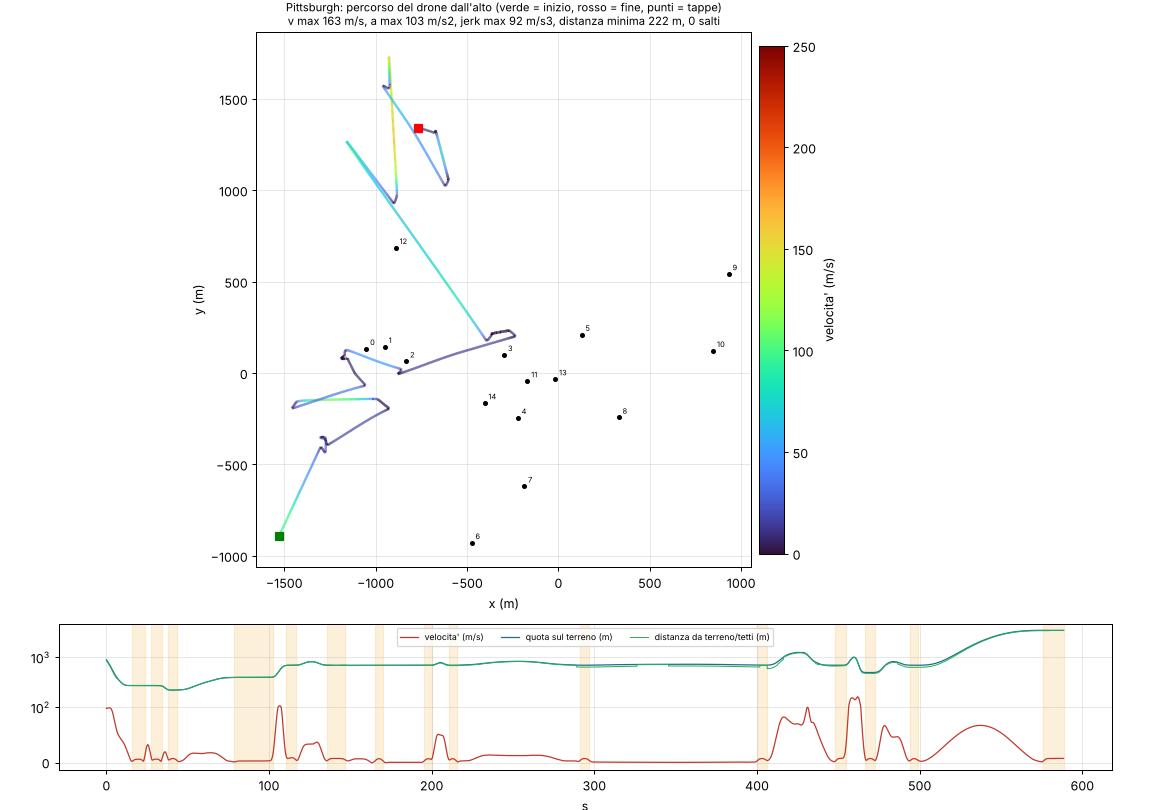
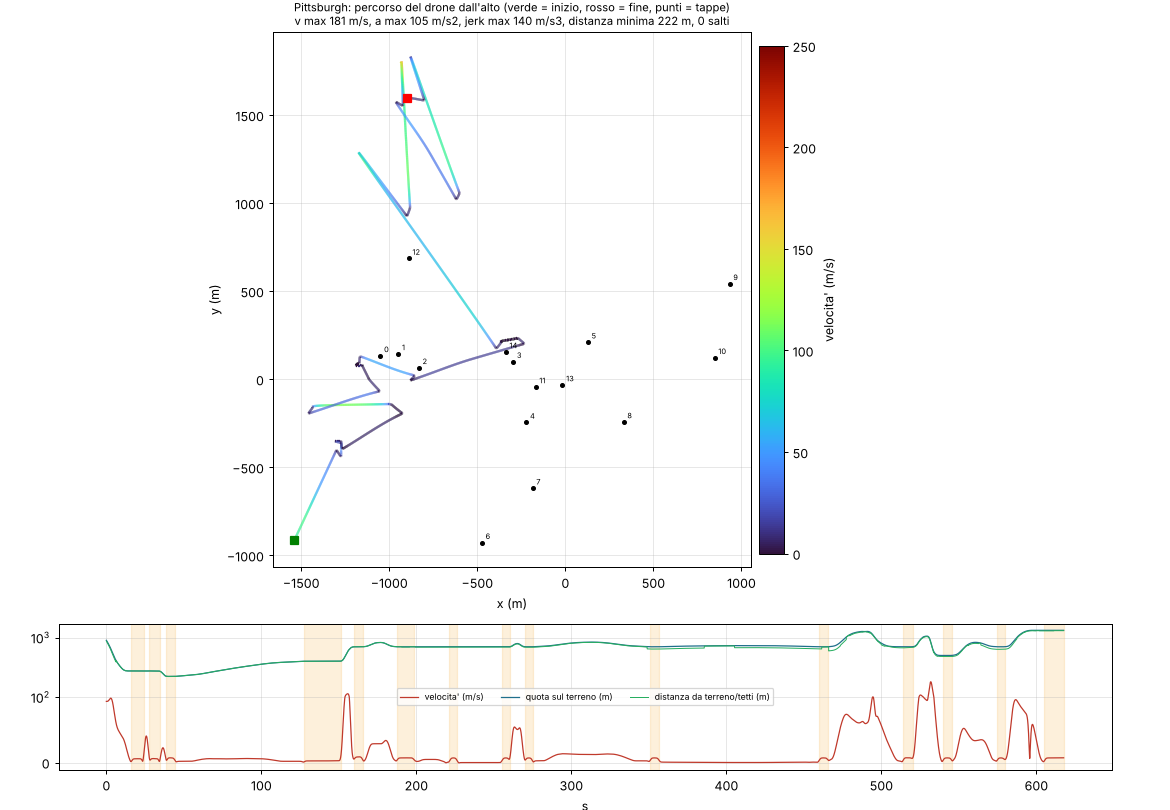
Pittsburgh gate: file rigenerati (giro 4, in corso)
Claude-Session: https://claude.ai/code/session_01FNnmkGRuUqGojwtegwiHi7

diff --git a/cities/pittsburgh/gate/DOSSIER.md b/cities/pittsburgh/gate/DOSSIER.md
@@ -1,24 +1,24 @@
 # GO dossier: Pittsburgh (pittsburgh)
 
-Generated by `python -m kit gate pittsburgh` on 2026-11-26 13:05 in 3446 s. **Overall: WARN** (gate checks, including every kit qa FAIL) / kit qa alone: **WARN**. No pod before a written GO (R3).
+Generated by `python -m kit gate pittsburgh` on 2026-11-26 16:15 in 3397 s. **Overall: WARN** (gate checks, including every kit qa FAIL) / kit qa alone: **WARN**. No pod before a written GO (R3).
 
 ## Verdict (R2)
 
-- **PASS** R2 camera distance: median 1731 m (35 mm equiv.), minimum 1200; refs: Copenhagen 1397, Paris 1427
-- **PASS** R2 look angle: p95 35 deg (limit 45), 97.4% of keys under it, max 82 deg
+- **PASS** R2 camera distance: median 1686 m (35 mm equiv.), minimum 1200; refs: Copenhagen 1397, Paris 1427
+- **PASS** R2 look angle: p95 35 deg (limit 45), 97.2% of keys under it, max 88 deg
 - **PASS** R2 frozen-counter flights: 0 flight(s) >= 12 s under 0.4 yr/s
 - **PASS** plots: plots.png
 - **PASS** POD PARITY: fresh unpack of data_pittsburgh_src + hist stub == local data: every json/npz md5 identical
 - **PASS** contact sheet: 26/26 real local frames: contact_sheet.jpg
 - **PASS** packaging draft: thumbnail + title built from the Lyon template
 - **WARN** banner: HEAD differs from origin/claude/marseille-pittsburgh-check-edrxmu: push before the GO
-- **WARN** banner: 3 uncommitted changes that the pod will not see (e.g. M cities/pittsburgh/copertina/frame_forts_round2_960.jpg)
+- **WARN** banner: 1 uncommitted changes that the pod will not see (e.g. M cities/pittsburgh/gate/contact_sheet.jpg)
 
 ## 1. Contact sheet (real local CPU frames, 480x270)
 
 ![contact](contact_sheet.jpg)
 
-Frames: flight:flight #1 -> Fort Duquesne (1754)@7.9s; flight:flight #11 -> The Civic Arena opens on the c@348.5s; flight:flight #14 -> The Tower at PNC Plaza (2015)@483.2s; hover:hover start: The Block House (1764)@38.2s; hover:hover end: The Block House (1764)@43.2s; intro:intro 0 s@0.0s; intro:intro 1 s@1.0s; intro:intro 2 s@2.0s; intro:intro 3 s@3.0s; intro:intro 4 s@4.0s; intro:intro 5 s@5.0s; intro:intro 6 s@6.0s; intro:intro 7 s@7.0s; intro:intro 8 s@8.0s; intro:intro 9 s@9.0s; intro:intro 10 s@10.0s; intro:intro 11 s@11.0s; chapter:chapter: Forts on the Forks@9.5s; chapter:chapter: Forts on the Forks@15.8s; chapter:chapter: A Town on the Frontier@44.1s; chapter:chapter: The Iron City@78.7s; chapter:chapter: Steel City@147.8s; chapter:chapter: Between the Wars@310.1s; chapter:chapter: Renaissance@359.8s; chapter:chapter: Collapse and Reinvention@418.7s; chapter:chapter: Eds, Meds and Robots@473.4s
+Frames: flight:flight #1 -> Fort Duquesne (1754)@8.0s; flight:flight #11 -> The Civic Arena opens on the c@408.2s; flight:flight #14 -> The Tower at PNC Plaza (2015)@560.0s; hover:hover start: The Block House (1764)@39.0s; hover:hover end: The Block House (1764)@44.0s; intro:intro 0 s@0.0s; intro:intro 1 s@1.0s; intro:intro 2 s@2.0s; intro:intro 3 s@3.0s; intro:intro 4 s@4.0s; intro:intro 5 s@5.0s; intro:intro 6 s@6.0s; intro:intro 7 s@7.0s; intro:intro 8 s@8.0s; intro:intro 9 s@9.0s; intro:intro 10 s@10.0s; intro:intro 11 s@11.0s; chapter:chapter: Forts on the Forks@9.5s; chapter:chapter: Forts on the Forks@16.1s; chapter:chapter: A Town on the Frontier@54.5s; chapter:chapter: The Iron City@127.4s; chapter:chapter: Steel City@200.0s; chapter:chapter: Between the Wars@369.8s; chapter:chapter: Renaissance@419.5s; chapter:chapter: Collapse and Reinvention@479.0s; chapter:chapter: Eds, Meds and Robots@547.9s
 
 ## 2. Camera altitude, distance, pitch
 
@@ -26,27 +26,27 @@ Frames: flight:flight #1 -> Fort Duquesne (1754)@7.9s; flight:flight #11 -> The 
 
 ![path](drone_path.png)
 
-Median distance 1731 m (>= 1200); pitch p95 35 deg (< 45); max pitch 82 deg.
+Median distance 1686 m (>= 1200); pitch p95 35 deg (< 45); max pitch 88 deg.
 
 ## 3. Flight table
 
 | # | start s | end s | dur s | years/s | median dist m | max alt m | max pitch deg | to | flag |
 |---|---|---|---|---|---|---|---|---|---|
-| 1 | 0.0 | 15.7 | 15.7 | 17.29 | 1016 | 1069 | 27 | Fort Duquesne (1754) | (opening) |
-| 2 | 23.7 | 27.2 | 3.5 | 0.94 | 983 | 448 | 27 | Fort Pitt (1758-1761) |  |
-| 3 | 34.2 | 37.7 | 3.5 | 1.34 | 828 | 394 | 28 | The Block House (1764) |  |
-| 4 | 43.7 | 78.4 | 34.7 | 1.47 | 833 | 399 | 27 | Pittsburgh becomes a city (1816-18 |  |
-| 5 | 102.7 | 110.7 | 8.1 | 0.40 | 674 | 741 | 82 | The Great Fire (April 1845) |  |
-| 6 | 116.7 | 135.7 | 19.0 | 0.64 | 1891 | 825 | 27 | 939 factories (1857) |  |
-| 7 | 146.9 | 165.1 | 18.2 | 0.70 | 1538 | 700 | 63 | The Monongahela Incline (1870) |  |
-| 8 | 170.1 | 195.5 | 25.4 | 0.48 | 1673 | 700 | 33 | The Smithfield Street Bridge (1883 |  |
-| 9 | 200.5 | 210.3 | 9.9 | 0.45 | 1783 | 788 | 28 | The Allegheny County Courthouse (1 |  |
-| 10 | 215.3 | 290.9 | 75.6 | 0.41 | 1851 | 844 | 28 | The Hill District, a center of Bla |  |
-| 11 | 296.9 | 400.0 | 103.1 | 0.40 | 1746 | 738 | 73 | The Civic Arena opens on the clear |  |
-| 12 | 406.0 | 448.2 | 42.2 | 0.52 | 1871 | 1307 | 72 | PPG Place and the second Renaissan |  |
-| 13 | 454.5 | 466.6 | 12.0 | 1.26 | 1286 | 1037 | 82 | Three Rivers Stadium is imploded;  |  |
-| 14 | 472.6 | 493.9 | 21.3 | 0.66 | 1772 | 848 | 27 | The Tower at PNC Plaza (2015) |  |
-| 15 | 498.9 | 576.0 | 77.1 | 0.13 | 5052 | 3523 | 62 | finale | (finale) |
+| 1 | 0.0 | 16.0 | 16.0 | 16.94 | 1014 | 1067 | 27 | Fort Duquesne (1754) | (opening) |
+| 2 | 24.0 | 27.5 | 3.5 | 0.94 | 983 | 452 | 28 | Fort Pitt (1758-1761) |  |
+| 3 | 34.5 | 38.5 | 3.9 | 1.20 | 826 | 399 | 28 | The Block House (1764) |  |
+| 4 | 44.5 | 127.2 | 82.7 | 0.62 | 835 | 400 | 27 | Pittsburgh becomes a city (1816-18 |  |
+| 5 | 151.4 | 159.5 | 8.1 | 0.40 | 671 | 743 | 81 | The Great Fire (April 1845) |  |
+| 6 | 165.5 | 187.3 | 21.8 | 0.56 | 1894 | 827 | 27 | 939 factories (1857) |  |
+| 7 | 198.5 | 221.4 | 22.9 | 0.55 | 1626 | 700 | 60 | The Monongahela Incline (1870) |  |
+| 8 | 226.4 | 255.2 | 28.8 | 0.43 | 1679 | 700 | 33 | The Smithfield Street Bridge (1883 |  |
+| 9 | 260.2 | 270.0 | 9.9 | 0.45 | 1783 | 794 | 28 | The Allegheny County Courthouse (1 |  |
+| 10 | 275.0 | 350.6 | 75.6 | 0.41 | 1851 | 844 | 27 | The Hill District, a center of Bla |  |
+| 11 | 356.6 | 459.7 | 103.1 | 0.40 | 1746 | 738 | 81 | The Civic Arena opens on the clear |  |
+| 12 | 465.7 | 513.8 | 48.1 | 0.46 | 1889 | 1314 | 73 | PPG Place and the second Renaissan |  |
+| 13 | 520.1 | 539.6 | 19.4 | 0.78 | 1296 | 1081 | 88 | Three Rivers Stadium is imploded;  |  |
+| 14 | 545.6 | 574.5 | 28.9 | 0.49 | 1774 | 852 | 27 | The Tower at PNC Plaza (2015) |  |
+| 15 | 579.5 | 605.1 | 25.6 | 0.38 | 2591 | 1358 | 77 | finale | (finale) |
 
 ## 4. kit qa
 
@@ -59,23 +59,24 @@ Result: **WARN** (full report: qa_REPORT.md)
 - **WARN** d) 1900: 99 aree vuote allungate: #1 130x25 m a (40.47462,-80.02731); #2 277x49 m a (40.47285,-80.01097); #3 193x38 m a (40.47308,-80.00989); #4 126x24 m a (40.47332,-80.00824); #5 244x38 m a (40.47187,-80.01130); #6 555x64 m a (40.46957,-80.00495) — corridoi_1900.png
 - **WARN** d) 1900: 40 viali larghi gia' visibili (se aperti sventrando: gutting): #100 2269x55 m a (40.45014,-79.98132); #101 2249x205 m a (40.45584,-80.00491); #102 1995x57 m a (40.46476,-80.02230); #103 1365x51 m a (40.42973,-79.99898); #104 1019x71 m a (40.46947,-80.01161)
 - **WARN** d) 1950: 100 aree vuote allungate: #1 130x25 m a (40.47462,-80.02731); #2 277x49 m a (40.47285,-80.01097); #3 193x38 m a (40.47308,-80.00989); #4 126x24 m a (40.47332,-80.00824); #5 244x38 m a (40.47187,-80.01130); #6 555x64 m a (40.46957,-80.00495) — corridoi_1950.png
+- **WARN** e) ritmo: nessun vuoto > 15 s senza stimolo nuovo: vuoto massimo 16.0 s (38-54 s); 2 oltre 15 s: 38-54, 54-70
 
 ## 5. Expected pod banner (quote it in the GO message)
 
 ```
-VERSIONE: 91c7bfc Pittsburgh round 3: piena smussata, Smithfield fino alla riva, Point meno rosso/fitto, saturazione, frames | schedule_pittsburgh: 588 s, lens 32.0
+VERSIONE: 96b12f3 Pittsburgh round 4: regia (tempo morto e camera ferma a 0), epilogo accorciato, schede, consegna rigenerata | schedule_pittsburgh: 618 s, lens 32.0
 ```
 
 Branch `claude/marseille-pittsburgh-check-edrxmu`. The GO message must contain, in ONE message: GPU check (`cuInit` = 0), `git pull` + this banner to verify, the launch command, the live progress one-liner, covers, and the condition to switch off (R3).
 
 - WARN HEAD differs from origin/claude/marseille-pittsburgh-check-edrxmu: push before the GO
-- WARN 3 uncommitted changes that the pod will not see (e.g. M cities/pittsburgh/copertina/frame_forts_round2_960.jpg)
+- WARN 1 uncommitted changes that the pod will not see (e.g. M cities/pittsburgh/gate/contact_sheet.jpg)
 
 ## 6. Cost (measured basis only, R4)
 
 - Measured basis (Lyon, 16/11/2026) [Certain]: 29 pod-s per video-s (4 h 37 min real render / 565 s = 29.4), +30 min scene build per process (145K building groups), pod about 0.5 EUR/h [Likely: over 5 EUR for about 10 h].
-- This city: video 9 min 48 s (588 s), 1 process(es) (day), buildings 179,756.
-- Estimate scaled from Lyon [Likely]: render 4 h 44 min + scene build 30 min 00 s = **5 h 14 min of pod, about 2.6 EUR**. Say it as an estimate.
+- This city: video 10 min 18 s (618 s), 1 process(es) (day), buildings 179,756.
+- Estimate scaled from Lyon [Likely]: render 4 h 58 min + scene build 30 min 00 s = **5 h 28 min of pod, about 2.7 EUR**. Say it as an estimate.
 - Over 100K buildings: no separate preview, go straight to `full`, check the first frames, re-render only a bad segment (R3).
 
 ## 7. Packaging (R14: series formula)

diff --git a/cities/pittsburgh/gate/qa_REPORT.md b/cities/pittsburgh/gate/qa_REPORT.md
@@ -1,13 +1,13 @@
 # QA pittsburgh
 
-Generato da `python -m kit.qa` il 2026-11-26 12:08. Esito complessivo: **WARN**
+Generato da `python -m kit.qa` il 2026-11-26 15:19. Esito complessivo: **WARN**
 
 | Sezione | Esito |
 |---|---|
 | a) Story e fonti | PASS |
 | b) DATA | PASS |
 | d) Corridoi vuoti | WARN |
-| e) Costo e schedule | PASS |
+| e) Costo e schedule | WARN |
 
 ## a) Story e fonti
 
@@ -58,42 +58,42 @@ Generato da `python -m kit.qa` il 2026-11-26 12:08. Esito complessivo: **WARN**
 
 ## e) Costo e schedule
 
-- **PASS** costo dei cambi (8 s)
-  - oggetti citta' 2338, cambi in tutto il video 78128, max in un fotogramma 1016 (~12 s), costo dei soli cambi ~0.26 h (budget 1.0 h)
+- **PASS** costo dei cambi (9 s)
+  - oggetti citta' 2338, cambi in tutto il video 78080, max in un fotogramma 1016 (~12 s), costo dei soli cambi ~0.26 h (budget 1.0 h)
 - **PASS** drone: velocita' massima
-  - 163 m/s (limite 250), mediana 8
+  - 181 m/s (limite 250), mediana 7
 - **PASS** drone: accelerazione massima
-  - 103 m/s2 (limite 120), 99% 49
+  - 105 m/s2 (limite 120), 99% 54
 - **PASS** drone: jerk massimo
-  - 92 m/s3 (limite 200), 99% 34
+  - 140 m/s3 (limite 200), 99% 43
 - **PASS** drone: distanza minima da terreno e tetti
   - 222 m (soglia 24); dal solo terreno 222 m
 - **PASS** drone: discontinuita' (target 0, tagli dichiarati: 0)
   - 0 salti
 - **PASS** drone: soste tolte per tempo
-  - 0 tolte, 14 tenute, 0 solo sorvolate; hover 107 s, volo 454 s; 
+  - 0 tolte, 14 tenute, 0 solo sorvolate; hover 107 s, volo 483 s; 
 - **PASS** drone: hover quasi fermo
-  - v max in hover 9.4 m/s (soglia 12; esclusi 30% o 1,5 s a ogni estremo)
+  - v max in hover 9.6 m/s (soglia 12; esclusi 30% o 1,5 s a ogni estremo)
 - **PASS** drone: voli con gli anni quasi fermi
   - nessun volo >= 12 s sotto 0,4 anni/s (fuori da apertura e finale)  [uniscili: trasforma una delle due soste vicine in cartello]
 - **PASS** drone: monumenti visibili durante il loro hover
   - ogni monumento bersaglio ha il corpo costruito a meta' hover  [Confluences: il corpo compariva a fine hover]
 - **PASS** drone: distanza della camera
-  - mediana 1731 m equivalenti a 35 mm (obiettivo 32 mm); riferimenti: Copenaghen 1397, Parigi 1427, Madrid 2538, Lione 930 (giudicata troppo vicina); soglia 1200
+  - mediana 1686 m equivalenti a 35 mm (obiettivo 32 mm); riferimenti: Copenaghen 1397, Parigi 1427, Madrid 2538, Lione 930 (giudicata troppo vicina); soglia 1200
 - **PASS** drone: esattezza anni
   - soste: y0 e y1 esatti sulla finestra di hover; cartelli fuori hover esatti; cartelli durante un hover e voli: anni flessibili (il contatore scorre fra le voci)
 - **PASS** drone: grafico del percorso
   - qa/drone_path.png
-- **PASS** ritmo: nessun vuoto > 15 s senza stimolo nuovo
-  - vuoto massimo 13.9 s (97-111 s)
+- **WARN** ritmo: nessun vuoto > 15 s senza stimolo nuovo
+  - vuoto massimo 16.0 s (38-54 s); 2 oltre 15 s: 38-54, 54-70
 - **PASS** ritmo: anni/s per minuto
-  - 0:00  3.81 | 1:00  0.83 | 2:00  0.50 | 3:00  0.39 | 4:00  0.37 | 5:00  0.38 | 6:00  0.41 | 7:00  0.63 | 8:00  0.28 | 9:00  0.02
+  - 0:00  4.15 | 1:00  0.57 | 2:00  0.72 | 3:00  0.38 | 4:00  0.39 | 5:00  0.37 | 6:00  0.38 | 7:00  0.41 | 8:00  0.51 | 9:00  0.41 | 10:00  0.01
 - **PASS** 14 soste ben formate
 - **PASS** soste ordinate e non sovrapposte
 - **PASS** didascalie "Titolo (data)"
 - **PASS** soste e cartelli sugli anni della story (0,01)
 - **PASS** evento forte entro 45 s
-  - primo a 15.7 s
+  - primo a 16.0 s
 
 ## Immagini
 
